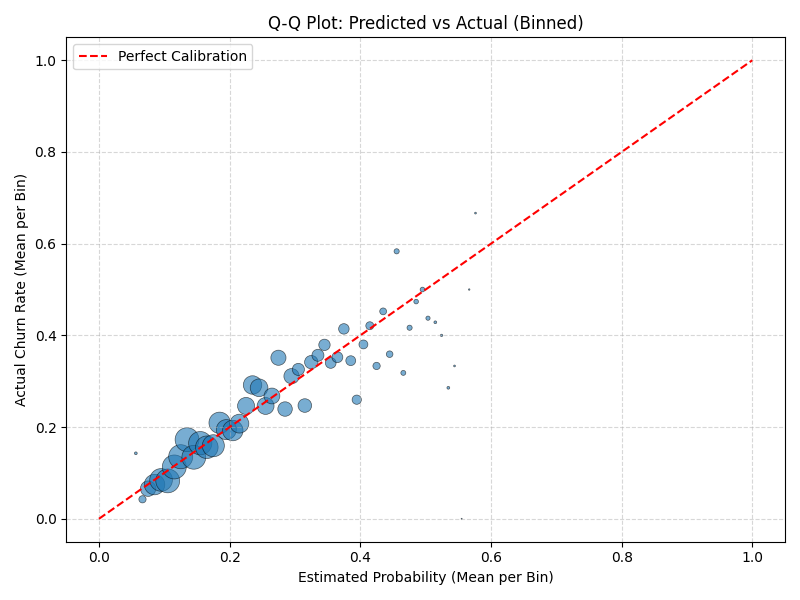
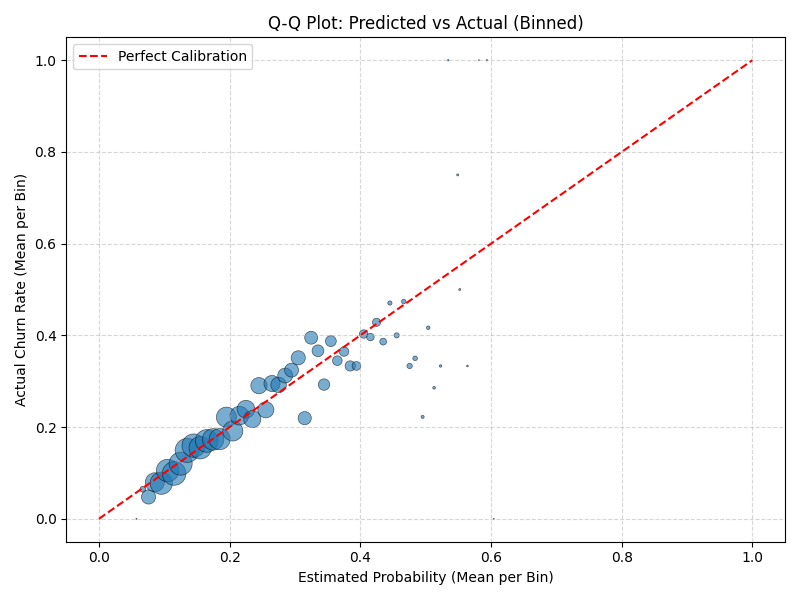
small fixes

diff --git a/main.py b/main.py
@@ -1,6 +1,6 @@
 
 class Main:
-    def __init__(self, data_folder, preprocessor_class, trainer_class, evaluator_class):
+    def __init__(self, data_folder, preprocessor_class, trainer_class, evaluator_class, model_type):
         """
         Initializes the main pipeline with the required components.
 
@@ -14,6 +14,7 @@ class Main:
         self.preprocessor_class = preprocessor_class
         self.trainer_class = trainer_class
         self.evaluator_class = evaluator_class
+        self.model_type = model_type
 
     def run(self):
         """
@@ -29,10 +30,10 @@ class Main:
 
         print("Starting model training...")
         trainer = self.trainer_class()
-        predictions_df = trainer.train(processed_data, model_type='LGBM')
+        predictions_df = trainer.train(processed_data, model_type=self.model_type)
 
         print("Starting results preparation...")
-        evaluator = self.evaluator_class()
+        evaluator = self.evaluator_class(p_success_outreach)
         evaluation_results = evaluator.run(predictions_df)
 
         print("Pipeline completed.")
@@ -47,11 +48,13 @@ if __name__ == "__main__":
     from Evaluate_model.evaluate_model import ModelEvaluation
 
     data_folder = "Data"
+    model_type = 'LR'  # Choose from 'LR', 'RF', 'LGBM'
     main_pipeline = Main(
         data_folder=data_folder,
         preprocessor_class=DataPreprocessing,
         trainer_class=ModelTraining,
         evaluator_class=ModelEvaluation,
+        model_type=model_type
     )
     results = main_pipeline.run()
     print("Evaluation Results:", results)

diff --git a/Model_training/train.py b/Model_training/train.py
@@ -51,9 +51,7 @@ class ModelTraining:
 
         else:  # Logistic Regression
             param_grid = {
-                'C': [0.01, 0.1, 1, 10],
-                'penalty': ['l2'],
-                'solver': ['lbfgs']
+                'C': [0.01, 0.05, 0.1, 1, 10]
             }
             base_model = LogisticRegression(random_state=42, max_iter=5000)
 
